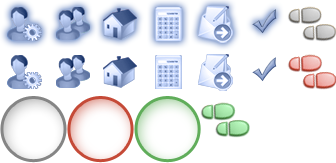
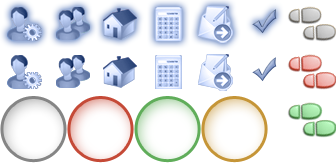
modification de steps

Changed region(s): [[0.5952, 0.5828, 0.8036, 1.0], [0.8333, 0.6135, 1.0, 0.8589]]

diff --git a/public/stylesheets/default.css b/public/stylesheets/default.css
@@ -1427,9 +1427,10 @@ select.catalog_3_columns {
 }
 
 /*/////////////////STEPS/////////////////*/
-.ring_finish,
+.ring_terminated,
 .ring_in_progress,
-.ring_disable,
+.ring_unstarted,
+.ring_uncomplete,
 .feet_finish,
 .feet_in_progress,
 .feet_disable,
@@ -1442,9 +1443,9 @@ select.catalog_3_columns {
 	background:url("/images/image-step.png") no-repeat;
 }
 
-.ring_finish,
+.ring_terminated,
 .ring_in_progress,
-.ring_disable {
+.ring_unstarted {
 	width:67px;
 	height:67px;
 	cursor:pointer;
@@ -1471,7 +1472,11 @@ select.catalog_3_columns {
 	padding:0 0px 0 20px;
 }
 
-.ring_finish {
+.ring_uncomplete {
+	background-position:-201px -96px;
+}
+
+.ring_terminated {
 	background-position:-134px -96px;
 }
 
@@ -1479,12 +1484,12 @@ select.catalog_3_columns {
 	background-position:-67px -96px;
 }
 
-.ring_disable {
+.ring_unstarted {
 	background-position:0 -96px;
 }
 
 .feet_finish {
-	background-position:-201px -96px;
+	background-position:-288px -96px;
 }
 
 .feet_in_progress {
@@ -1552,9 +1557,9 @@ select.catalog_3_columns {
 
 }
 
-#steps div.ring_finish,
+#steps div.ring_terminated,
 #steps div.ring_in_progress,
-#steps div.ring_disable {
+#steps div.ring_unstarted {
 	margin:10px 19px 0px -4px;
 }
 
